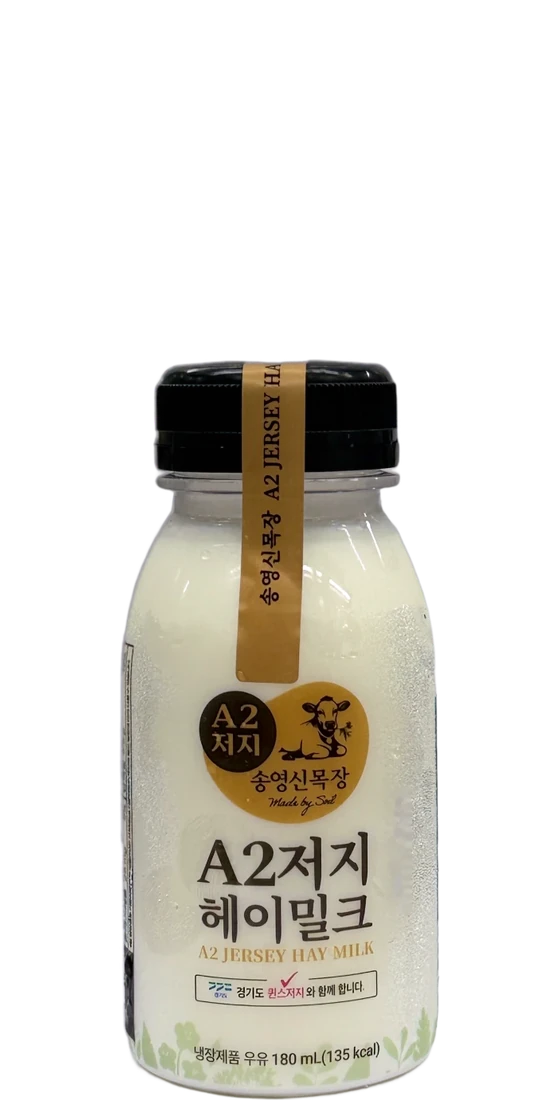
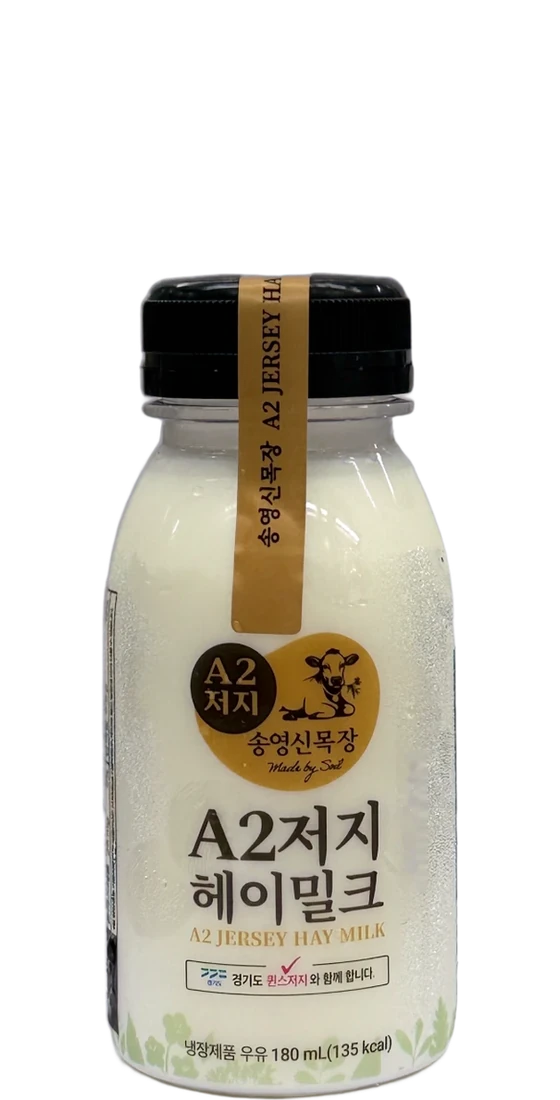
fix(진열 카드): 180mL 병을 조금 더 크게 (0.68 → 0.76) (#244)
Claude-Session: https://claude.ai/code/session_01F2bgBTKJ7TqpFALYp1gxwG

Changed region(s): [[0.1821, 0.2473, 0.8196, 1.0], [0.3036, 0.5255, 0.3339, 0.5564]]

diff --git a/components/ProductShowcase.tsx b/components/ProductShowcase.tsx
@@ -42,7 +42,7 @@ const COUNT_KR = ["", "한", "두", "세", "네", "다섯", "여섯", "일곱", 
 const maxRate = discountForPeriod(SUB_PERIODS[SUB_PERIODS.length - 1]);
 
 // 색 바탕 카드 — 제품마다 라벨 색에서 뽑은 바탕과, 배경을 지운 병 사진(public/products/cut).
-//   ※ 누끼 넷은 같은 캔버스(560×1100)에 키 순서가 보이는 비율(750mL 1 : 500mL 0.85 : 180mL 0.68)로 앉혀 둔다.
+//   ※ 누끼 넷은 같은 캔버스(560×1100)에 키 순서가 보이는 비율(750mL 1 : 500mL 0.85 : 180mL 0.76)로 앉혀 둔다.
 //     실제 비율(1 : 0.77 : 0.53)을 그대로 쓰면 180mL 가 너무 작아 라벨이 안 읽혀 조금 눌렀다.
 //     카드마다 object-contain 으로 꽉 채우면 180mL 가 750mL 보다 커 보인다(2026-11-16 회장님 지적).
 // 병 사진은 원본(assets/product-photos)을 Higgsfield remove_background 로 누끼 딴 뒤 병 둘레만 남겨 잘랐다.
